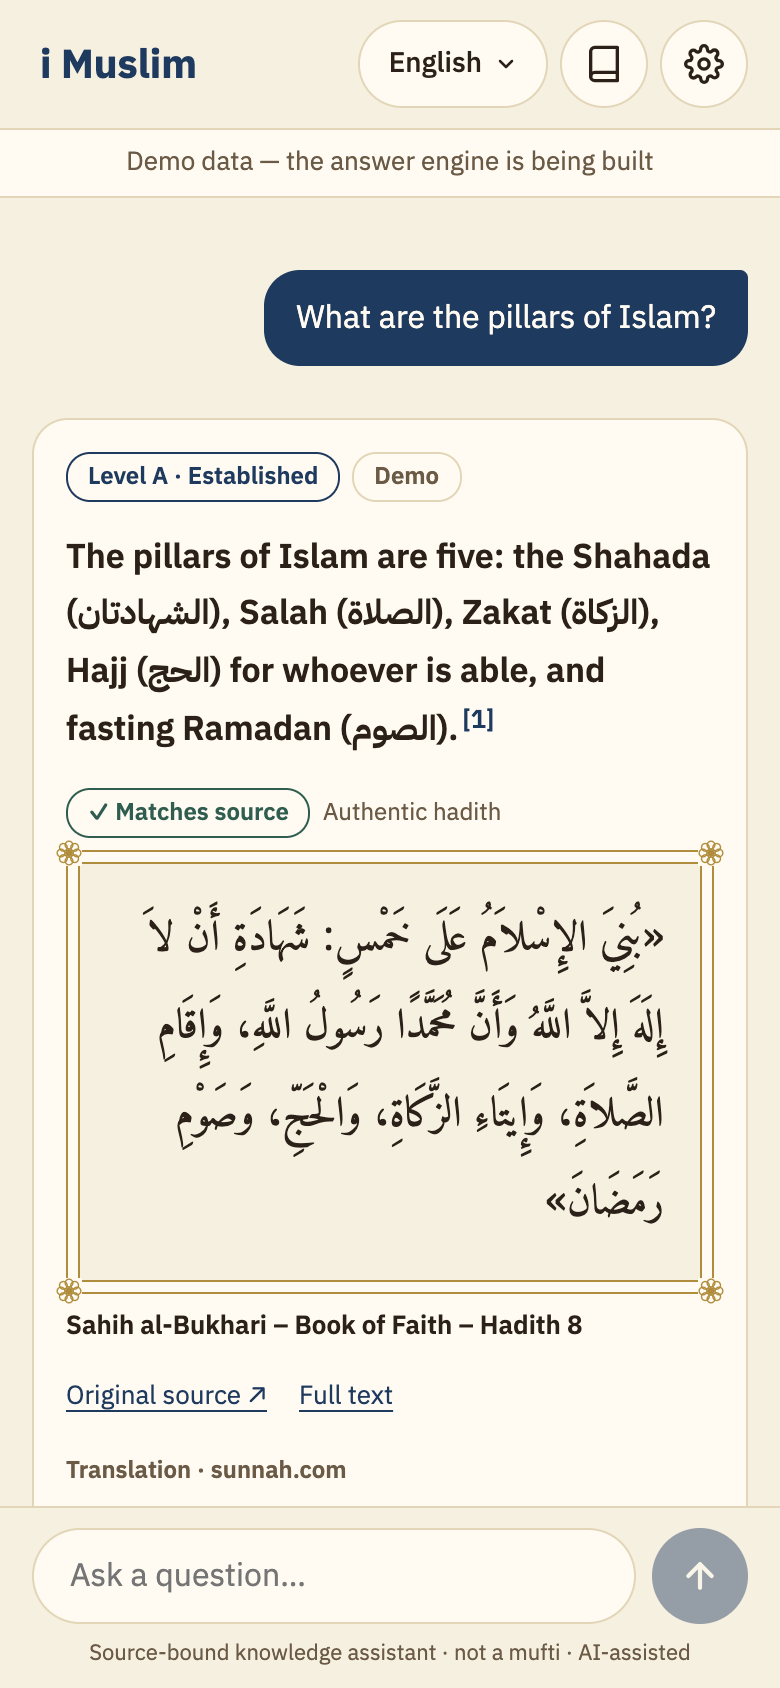
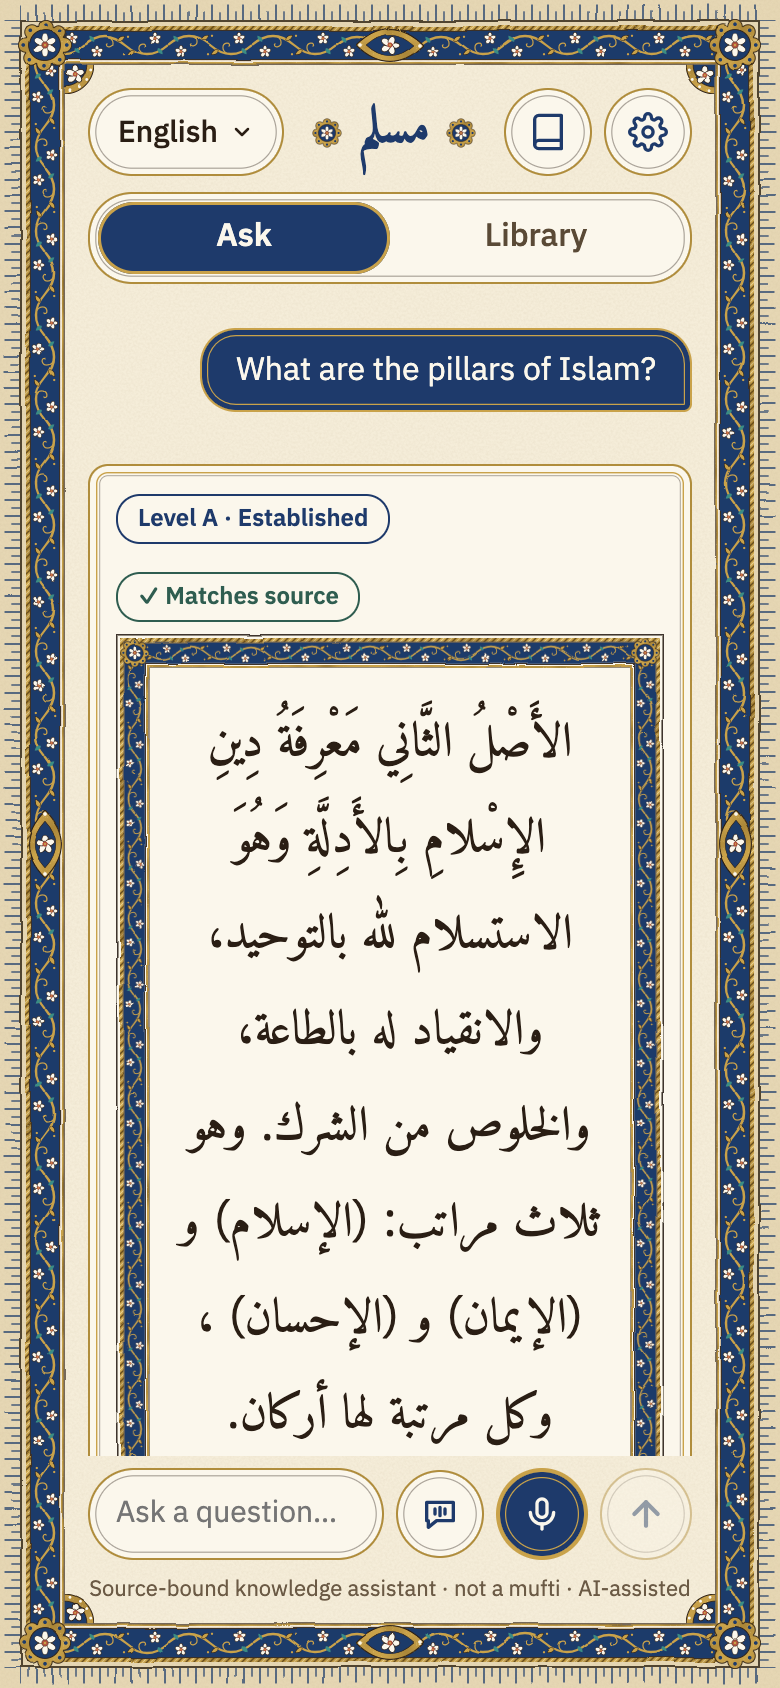
Test answers no longer suggest what the app cannot show (reply 0025): the voice-mode tests and screenshots answer «ما أركان الإسلام؟» with the live link's own passage (aqeedah:usul:005, الأصول الثلاثة – ص 14–15) instead of a mock Bukhari hadith (hadith is not indexed yet); the six old ar/en/ur answe
Claude-Session: https://claude.ai/code/session_01N2F6DfE1VtyZynofspGQEu

diff --git a/web/e2e/voicemode.spec.ts b/web/e2e/voicemode.spec.ts
@@ -1,11 +1,13 @@
 import path from 'node:path'
 import { expect, test, type Page } from '@playwright/test'
-import { mockAnswer } from '../src/mock/data'
+import answer from './fixtures/answer-pillars.json' with { type: 'json' }
 
 // Full-screen voice mode (command 18), Chromium with a fake microphone that plays e2e/fixtures/voice-question.wav
 // (1 s of silence, «ما أركان الإسلام» spoken by the macOS voice Majed, 3 s of silence, looped).
 //   BASE_URL=http://localhost:8787 npx playwright test e2e/voicemode.spec.ts --project=mobile
-// /api/transcribe and /api/ask are answered by the test (nothing reaches Whisper, the model or the database), and
+// /api/transcribe, /api/ask and /api/explain are answered by the test (nothing reaches Whisper, the model or the
+// database); the answer is the live link's own for this question (fixtures/answer-pillars.json: the creed passage
+// usul:005, no hadith, since hadith is not indexed yet), and
 // speechSynthesis is replaced by a stand-in that records what would be said. Every microphone stream is recorded so
 // the test can check that all its tracks end when the mode closes.
 
@@ -29,8 +31,9 @@ async function setup(page: Page) {
   })
   await page.route('**/api/ask', async (r) => {
     calls.ask++
-    await r.fulfill({ json: mockAnswer('ar') })
+    await r.fulfill({ json: answer })
   })
+  await page.route('**/api/explain', (r) => r.fulfill({ status: 404, json: { error: 'not_found' } }))
   await page.addInitScript(() => {
     const w = window as unknown as { __streams: MediaStream[]; __spoken: string[] }
     w.__streams = []
@@ -108,12 +111,14 @@ test('with ?voicemode=1: listen, hear, send, read, listen again, end with every 
   expect(calls.transcribe).toBe(1)
   await expect(dlg).toHaveAttribute('data-phase', /searching|reading|listening/, { timeout: 5_000 })
   await expect.poll(() => calls.ask).toBe(1)
-  // The reference line of the answer stays shown, and the reading follows speakable.ts (no ayah text read).
+  // The reference line of the answer stays shown, and the reading follows speakable.ts: the passage (which quotes
+  // ayat) is not read by the machine voice, only fixed lines and its reference.
+  await expect(dlg.locator('.vm-ref')).toContainText('الأصول الثلاثة')
   await expect(dlg.locator('.vm-ref')).toContainText('مطابق للمصدر')
   const spoken = await page.evaluate(() => (window as unknown as { __spoken: string[] }).__spoken)
   expect(spoken.length).toBeGreaterThan(0)
-  const ayah = mockAnswer('ar').quotes.find((q) => q.kind === 'ayah')
-  if (ayah) expect(spoken.join(' ')).not.toContain(ayah.text.slice(0, 20))
+  expect(spoken.join(' ')).not.toContain(answer.quotes[0].text.slice(0, 30))
+  expect(spoken.join(' ')).not.toContain('شَهِدَ اللَّهُ')
   // After the reading, it listens again on its own.
   await expect(dlg).toHaveAttribute('data-phase', 'listening', { timeout: 10_000 })
   expect(await liveTracks(page)).toBeGreaterThan(0)

diff --git a/web/src/voice/VoiceMode.tsx b/web/src/voice/VoiceMode.tsx
@@ -24,19 +24,25 @@ import './voicemode.css'
 
 type Phase = 'starting' | 'listening' | 'transcribing' | 'heard' | 'searching' | 'reading' | 'tap' | 'muted' | 'limit' | 'error'
 type View = { phase: Phase; heard?: string; message?: string }
-type UI = { view: (v: View) => void; note: (text: string | null) => void; ref: (text: string | null) => void; level: (x: number) => void }
+/** The source line under the shamsa: the passage's reference (Arabic, isolated so its page range keeps its order in
+ *  any interface language) and a label. */
+type RefLine = { ref: string | null; label: string }
+type UI = { view: (v: View) => void; note: (text: string | null) => void; ref: (line: RefLine | null) => void; level: (x: number) => void }
 
 const HEARD_MS = 1500
 
-function refLine(h: Heard, lang: Lang, t: Strings): string {
+function refLine(h: Heard, lang: Lang, t: Strings): RefLine {
   if (h.type === 'answer') {
     const q = h.quotes[0]
-    return q ? `${displayRef(q.ref, lang)}${q.verified ? ` · ${t.badgeVerified}` : ''}` : t.badgeVerified
+    // Western digits inside the Arabic reference (left-to-right interfaces): the page range in its own left-to-right
+    // isolate, so «ص 14–15» does not turn into «15–14».
+    const ref = q ? displayRef(q.ref, lang).replace(/(\d+\s*[–-]\s*\d+)/g, '\u2066$1\u2069') : null
+    return { ref, label: q && !q.verified ? '' : t.badgeVerified }
   }
-  if (h.type === 'referral') return t.referralTitle
-  if (h.type === 'abstain') return t.abstainTitle
-  if (h.type === 'error') return h.message || t.voiceFailed
-  return t.voiceFailed
+  if (h.type === 'referral') return { ref: null, label: t.referralTitle }
+  if (h.type === 'abstain') return { ref: null, label: t.abstainTitle }
+  if (h.type === 'error') return { ref: null, label: h.message || t.voiceFailed }
+  return { ref: null, label: t.voiceFailed }
 }
 
 /** The conversation, outside React: one instance per opening. */
@@ -269,7 +275,7 @@ export function VoiceMode({
   const ring = useRef<SVGCircleElement>(null)
   const [view, setView] = useState<View>({ phase: 'starting' })
   const [note, setNote] = useState<string | null>(null)
-  const [ref, setRef] = useState<string | null>(null)
+  const [ref, setRef] = useState<RefLine | null>(null)
   const [muted, setMuted] = useState(false)
   const [tip, setTip] = useState(false)
   const conv = useRef<Conversation | null>(null)
@@ -400,7 +406,13 @@ export function VoiceMode({
         {note && <p className="vm-note">{note}</p>}
         {ref && (
           <p className="vm-ref">
-            <bdi>{ref}</bdi>
+            {ref.ref && (
+              <bdi lang="ar" dir="rtl">
+                {ref.ref}
+              </bdi>
+            )}
+            {ref.ref && ref.label && ' · '}
+            {ref.label}
           </p>
         )}
         {tip && <p className="vm-tip">{v.iosTip}</p>}
